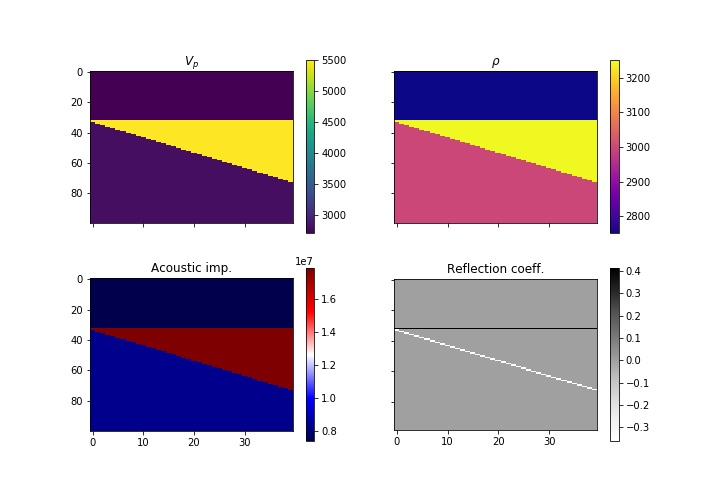
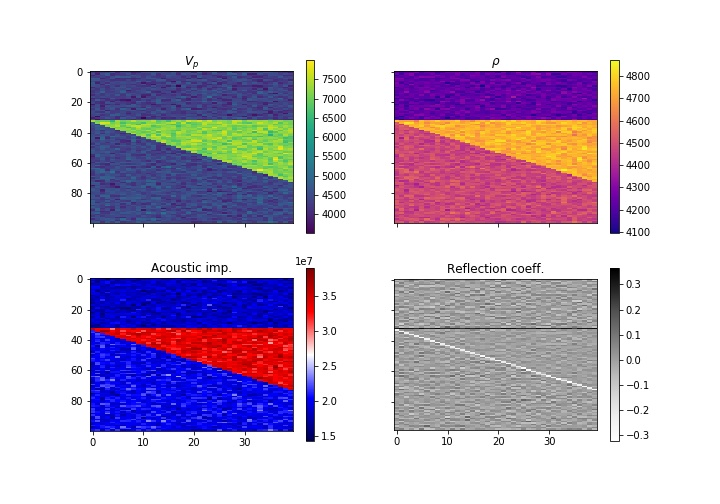
Added noise to input earth model for wedges

diff --git a/seismic_wedge.py b/seismic_wedge.py
@@ -13,8 +13,9 @@ sense.
 import numpy as np
 import matplotlib.pyplot as plt 
 import bruges 
+from skimage.util import random_noise as random_noise
 
-length, depth = 40, 100 
+length, depth = 40, 100
 model = 1  + np.tri(depth, length, k=-depth//3, dtype=int)
 model[0:depth//3,:] = 0
 
@@ -29,6 +30,15 @@ rocks = np.array([[2700, 2750],  # Vp, rho
 # then index into it, where it takes the first, second, or third value in rocks depending
 # on whether the matrix is full of 0, 1 or 2 in the model.                   
 earth = rocks[model]
+
+# Add noise to the model 
+noise_amount = 0.2  # multiplied by the variance, so 1 = the var. 
+Vp_noise = random_noise(earth[:,:,0], mode='gaussian', clip=False, seed=11, mean=np.mean(earth[:,:,0]), var=np.var(earth[:,:,0])*noise_amount)
+earth[:,:,0] = np.divide(np.add(earth[:,:,0], earth[:,:,0]+Vp_noise),2)
+rho_noise = random_noise(earth[:,:,1], mode='gaussian', clip=False, seed=11, mean=np.mean(earth[:,:,1]), var=np.var(earth[:,:,1])*noise_amount)
+earth[:,:,1] = np.divide(np.add(earth[:,:,1], earth[:,:,1]+rho_noise),2)
+
+
 
 f, (ax1, ax2) = plt.subplots(2, 1, sharex=True)
 m1 = ax1.imshow(earth[:,:,0], cmap='viridis')
